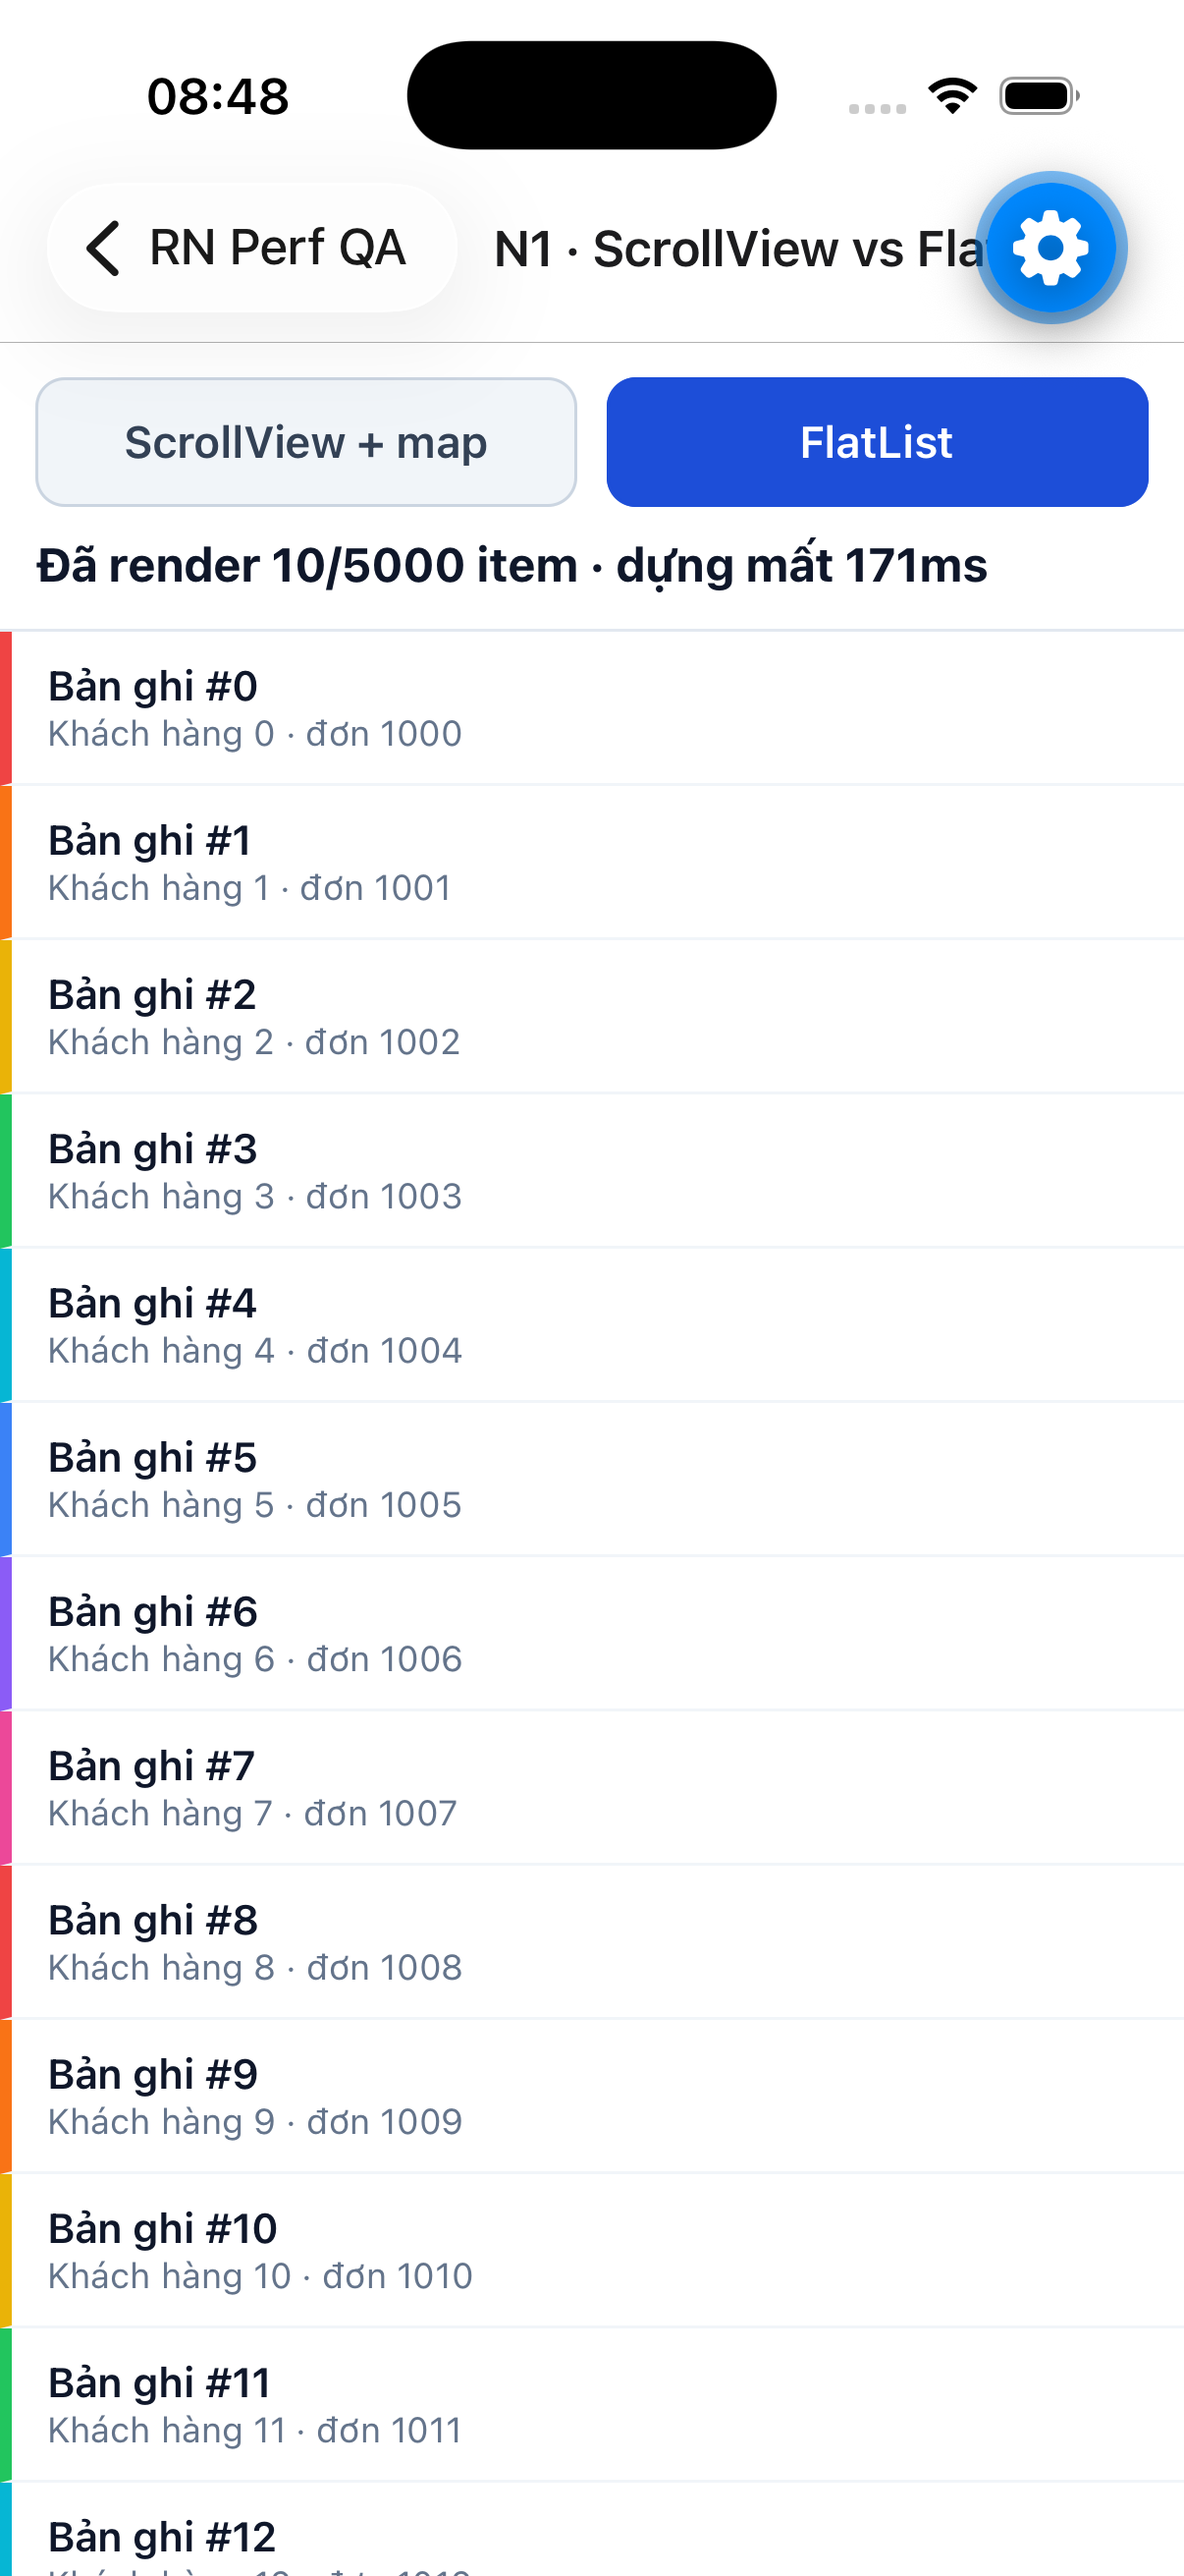
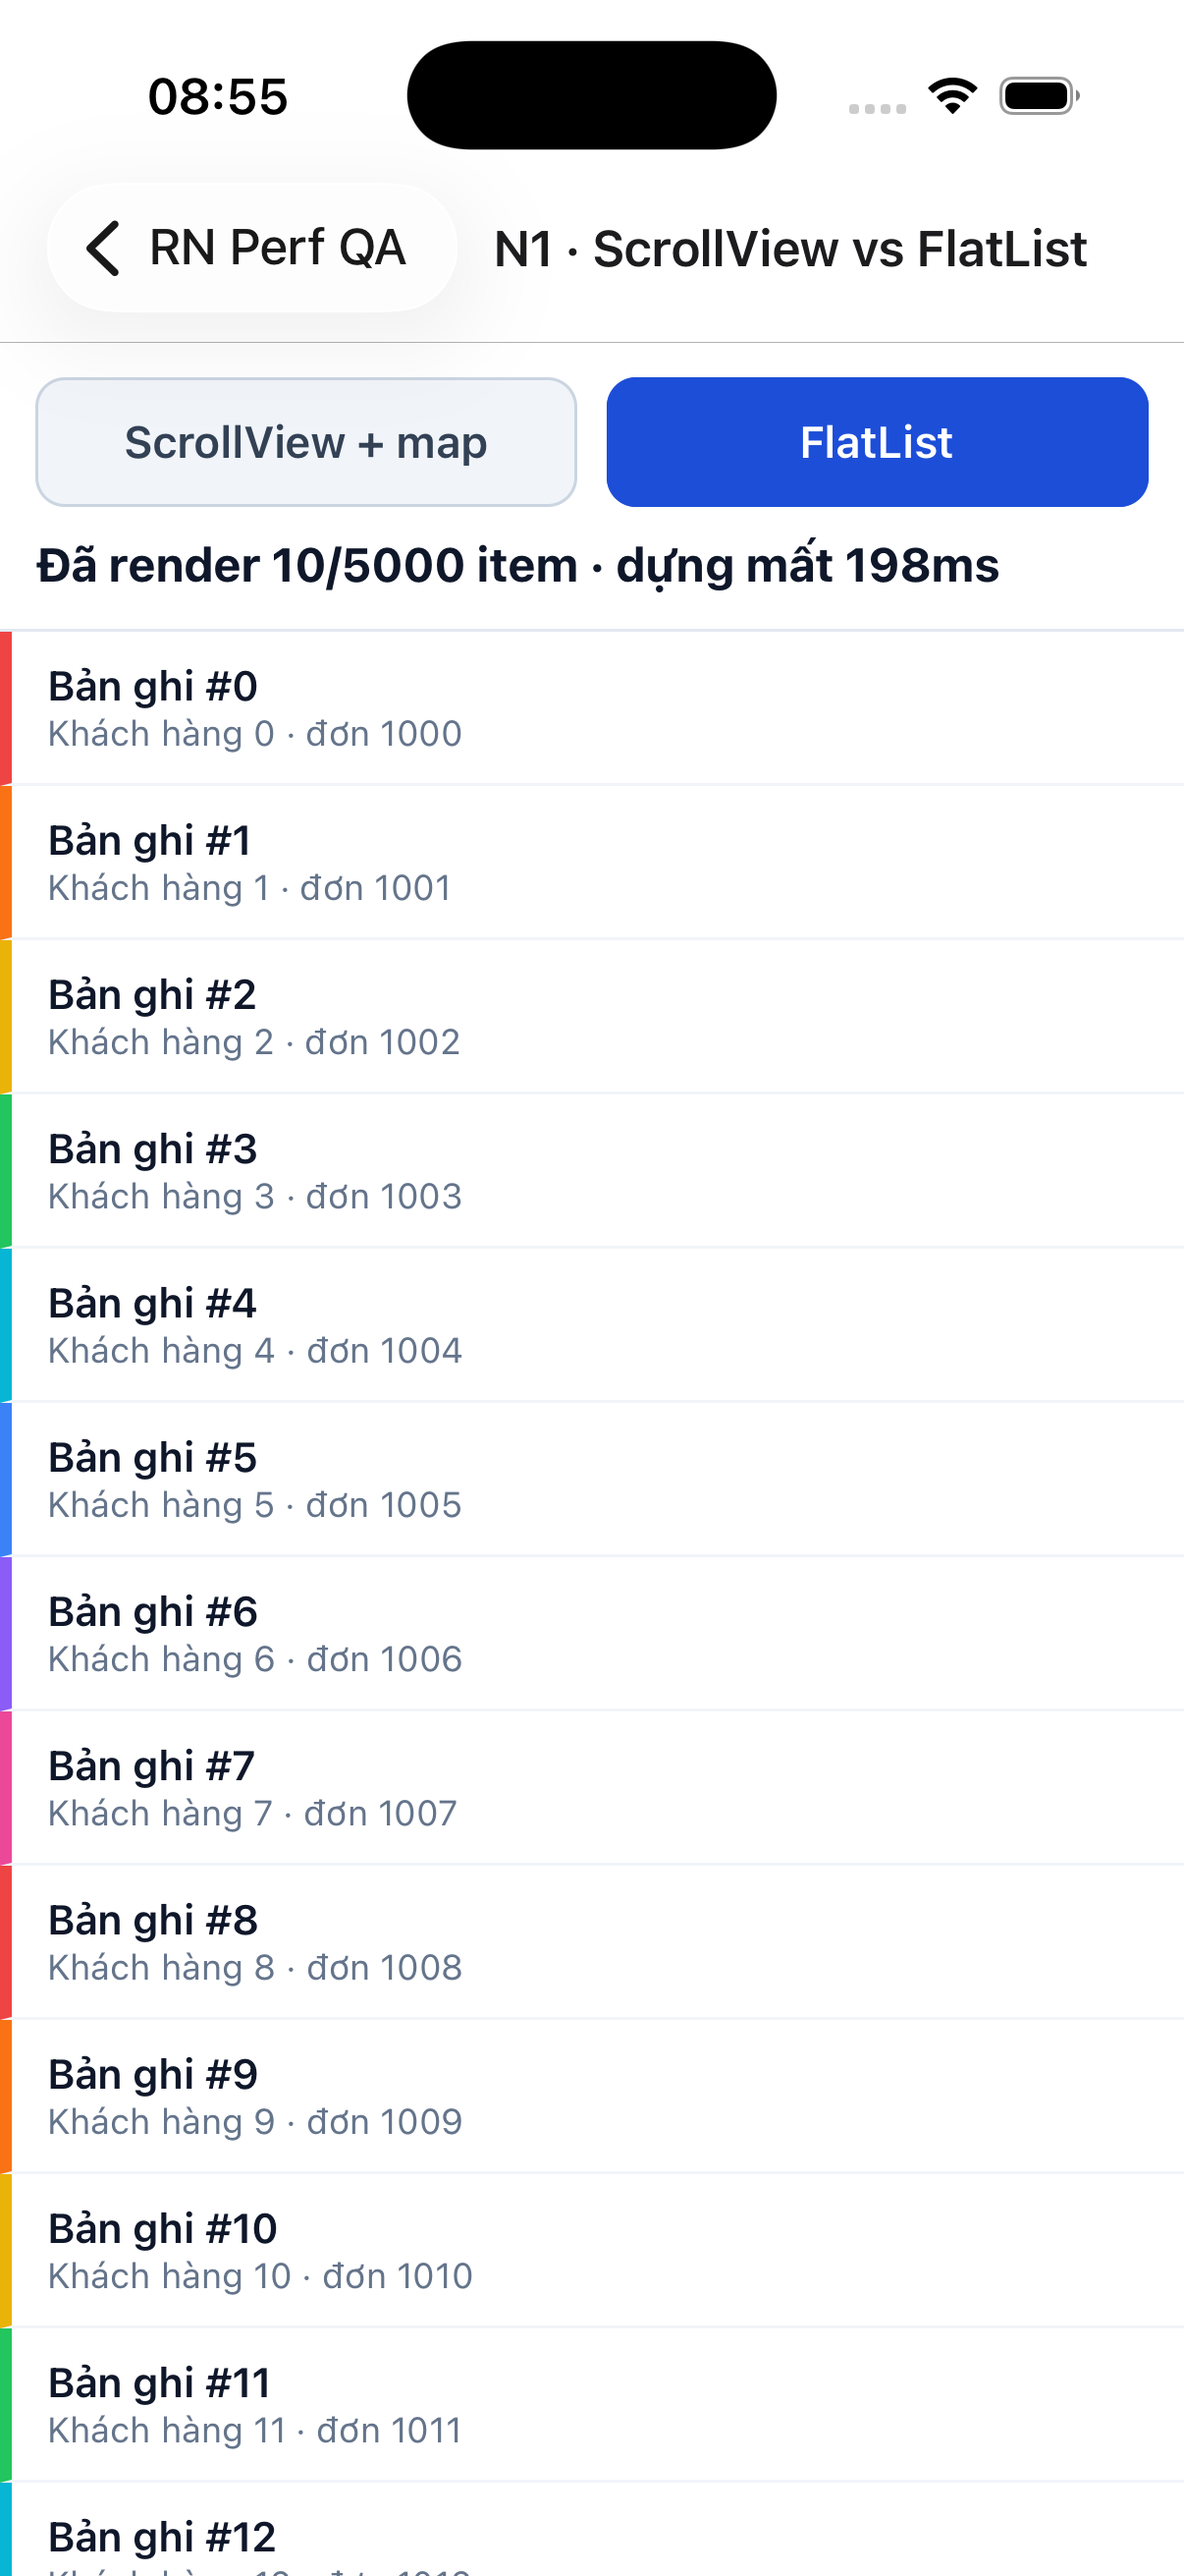
feat: câu N2 — getItemLayout + scrollToIndex + re-chụp n1 sạch dev button
- n2.tsx: FlatList 5000 item ROW_H=64; toggle getItemLayout OFF/ON (remount reset measured frames)
- OFF: scrollToIndex(4999) đứng yên, onScrollToIndexFailed → banner đỏ FAIL (highestMeasuredFrameIndex=118)
- ON: getItemLayout + windowSize=5 + initialNumToRender=12 → nhảy tức thì 49ms (rAF kép), đứng trọn #4999
- Banner overlay absolute để không co viewport sau cú nhảy
- n1-*.png re-chụp sau khi tắt "Tools button" trong dev menu Expo Go (5000/1381ms vs 10/198ms)

Changed region(s): [[0.7977, 0.0618, 0.9818, 0.1545], [0.7363, 0.2162, 0.859, 0.2471], [0.1841, 0.0309, 0.2454, 0.0618]]

diff --git a/demo-perf-interview/rn-perf/src/app/n2.tsx b/demo-perf-interview/rn-perf/src/app/n2.tsx
@@ -1,9 +1,159 @@
-import { Text, View } from 'react-native';
+import { useRef, useState } from 'react';
+import { FlatList, Pressable, StyleSheet, Text, View } from 'react-native';
+import { Item, makeItems } from '@/lib/data';
 
-export default function N2Page() {
+const TOTAL = 5000;
+const ROW_H = 64; // chiều cao cố định — điều kiện để getItemLayout đúng
+const items = makeItems(TOTAL);
+
+function Row({ item }: { item: Item }) {
   return (
-    <View style={{ flex: 1, alignItems: 'center', justifyContent: 'center' }}>
-      <Text>Chưa làm</Text>
+    <View style={[styles.row, { borderLeftColor: item.color }]}>
+      <Text style={styles.title}>{item.title}</Text>
+      <Text style={styles.sub}>{item.subtitle}</Text>
     </View>
   );
 }
+
+type Banner =
+  | { kind: 'fail'; msg: string; detail: string }
+  | { kind: 'ok'; msg: string };
+
+export default function N2Page() {
+  const [on, setOn] = useState(false);
+  const [banner, setBanner] = useState<Banner | null>(null);
+  const listRef = useRef<FlatList<Item>>(null);
+  const startRef = useRef(0);
+
+  const toggle = () => {
+    setBanner(null);
+    setOn((v) => !v); // key đổi → list remount, reset measured frames
+  };
+
+  const jump = () => {
+    setBanner(null);
+    startRef.current = performance.now();
+    listRef.current?.scrollToIndex({ index: TOTAL - 1, animated: false });
+    if (on) {
+      // Đo tới rAF kép sau scrollToIndex: khung hình sau cú nhảy đã commit.
+      requestAnimationFrame(() => {
+        requestAnimationFrame(() => {
+          const ms = Math.round(performance.now() - startRef.current);
+          setBanner({ kind: 'ok', msg: `nhảy tức thì ${ms}ms` });
+        });
+      });
+    }
+  };
+
+  return (
+    <View style={styles.screen}>
+      <View style={styles.header}>
+        <View style={styles.btnRow}>
+          <Pressable onPress={toggle} style={[styles.toggleBtn, on && styles.toggleBtnOn]}>
+            <Text style={[styles.toggleTxt, on && styles.toggleTxtOn]}>
+              getItemLayout: {on ? 'ON' : 'OFF'}
+            </Text>
+          </Pressable>
+          <Pressable onPress={jump} style={styles.jumpBtn}>
+            <Text style={styles.jumpTxt}>Nhảy tới item #4999</Text>
+          </Pressable>
+        </View>
+      </View>
+      <View style={styles.listWrap}>
+        {/* Banner overlay tuyệt đối — không đổi kích thước viewport của list,
+            để cú nhảy tới đáy vẫn hiện trọn item #4999. */}
+        {banner?.kind === 'fail' && (
+          <View style={[styles.banner, styles.bannerFail]}>
+            <Text style={styles.bannerFailTxt}>{banner.msg}</Text>
+            <Text style={styles.bannerFailSub}>{banner.detail}</Text>
+          </View>
+        )}
+        {banner?.kind === 'ok' && (
+          <View style={[styles.banner, styles.bannerOk]}>
+            <Text style={styles.bannerOkTxt}>{banner.msg}</Text>
+          </View>
+        )}
+        <FlatList
+        // remount khi đổi chế độ để reset scroll + measured frames
+        key={on ? 'with-layout' : 'no-layout'}
+        ref={listRef}
+        style={styles.list}
+        data={items}
+        renderItem={({ item }) => <Row item={item} />}
+        keyExtractor={(it) => it.id}
+        getItemLayout={
+          on ? (_, index) => ({ length: ROW_H, offset: ROW_H * index, index }) : undefined
+        }
+        windowSize={on ? 5 : undefined}
+        initialNumToRender={on ? 12 : undefined}
+        onScrollToIndexFailed={(info) => {
+          setBanner({
+            kind: 'fail',
+            msg: 'scrollToIndex FAIL — thiếu getItemLayout',
+            detail: `index ${info.index} ngoài render window · mới đo được tới #${info.highestMeasuredFrameIndex}`,
+          });
+        }}
+        />
+      </View>
+    </View>
+  );
+}
+
+const styles = StyleSheet.create({
+  screen: { flex: 1, backgroundColor: '#f8fafc' },
+  header: {
+    padding: 12,
+    gap: 10,
+    backgroundColor: '#ffffff',
+    borderBottomWidth: 1,
+    borderBottomColor: '#e2e8f0',
+  },
+  btnRow: { flexDirection: 'row', gap: 10 },
+  toggleBtn: {
+    flex: 1,
+    paddingVertical: 12,
+    borderRadius: 10,
+    borderWidth: 1,
+    borderColor: '#cbd5e1',
+    backgroundColor: '#f1f5f9',
+    alignItems: 'center',
+  },
+  toggleBtnOn: { backgroundColor: '#15803d', borderColor: '#15803d' },
+  toggleTxt: { fontSize: 15, fontWeight: '600', color: '#334155' },
+  toggleTxtOn: { color: '#ffffff' },
+  jumpBtn: {
+    flex: 1,
+    paddingVertical: 12,
+    borderRadius: 10,
+    backgroundColor: '#1d4ed8',
+    alignItems: 'center',
+  },
+  jumpTxt: { fontSize: 15, fontWeight: '600', color: '#ffffff' },
+  list: { flex: 1 },
+  row: {
+    height: ROW_H,
+    justifyContent: 'center',
+    backgroundColor: '#ffffff',
+    borderLeftWidth: 4,
+    paddingHorizontal: 12,
+    borderBottomWidth: 1,
+    borderBottomColor: '#f1f5f9',
+  },
+  title: { fontSize: 14, fontWeight: '600', color: '#0f172a' },
+  sub: { fontSize: 12, color: '#64748b' },
+  listWrap: { flex: 1 },
+  banner: {
+    position: 'absolute',
+    top: 12,
+    left: 12,
+    right: 12,
+    zIndex: 10,
+    borderRadius: 10,
+    padding: 12,
+  },
+  bannerFail: { backgroundColor: '#dc2626' },
+  bannerFailTxt: { fontSize: 16, fontWeight: '700', color: '#ffffff' },
+  bannerFailSub: { fontSize: 12, color: '#fecaca', marginTop: 4 },
+  bannerOk: { backgroundColor: '#16a34a' },
+  bannerOkTxt: { fontSize: 16, fontWeight: '700', color: '#ffffff' },
+});
